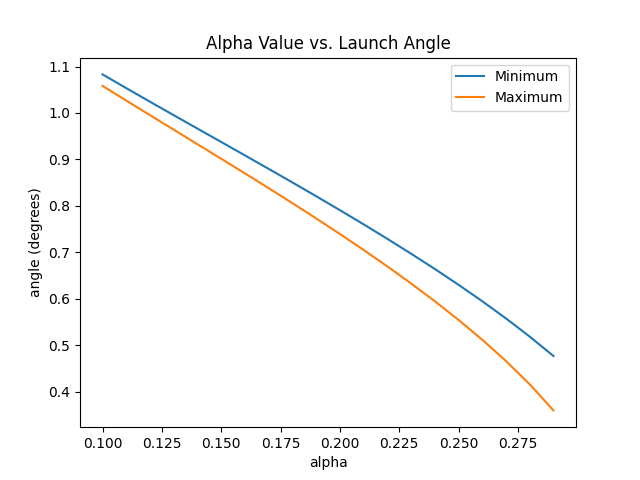
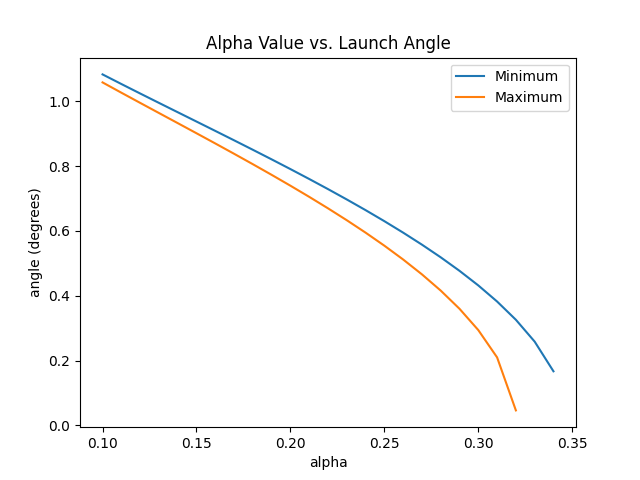
updated legend on ve_v0_range, updated parameters of arrays

diff --git a/source/plots.py b/source/plots.py
@@ -6,7 +6,7 @@ max_angles_q3= []
 alpha_range= []
 i=0.1
 
-while i <= 0.3:
+while i <= 1:
     alpha_range.append(i)
     min_angles_q3.append(rocket.launch_angle_range(2.0,i,0.04)[0])
     max_angles_q3.append(rocket.launch_angle_range(2.0,i,0.04)[1])
@@ -17,11 +17,11 @@ max_angles_q4= []
 ve_v0_range = []
 j=2
 
-while j <= 5:
+while j <= 10:
     ve_v0_range.append(j)
     min_angles_q4.append(rocket.launch_angle_range(j,0.25,0.04)[0])
     max_angles_q4.append(rocket.launch_angle_range(j,0.25,0.04)[1])
-    j+=0.1
+    j+=0.01 
 
 
 #print(alpha_range)
@@ -37,8 +37,8 @@ plt.legend()
 plt.savefig('alpha_range.png')
 
 plt.figure()
-plt.plot(ve_v0_range,min_angles_q4)
-plt.plot(ve_v0_range,max_angles_q4)
+plt.plot(ve_v0_range,min_angles_q4, label = 'Minimum')
+plt.plot(ve_v0_range,max_angles_q4, label = 'Maximum')
 plt.xlabel('ve_v0_range')
 plt.ylabel('angle (degrees)')
 plt.title('Velocity Ratio Range vs. Launch Angle')
